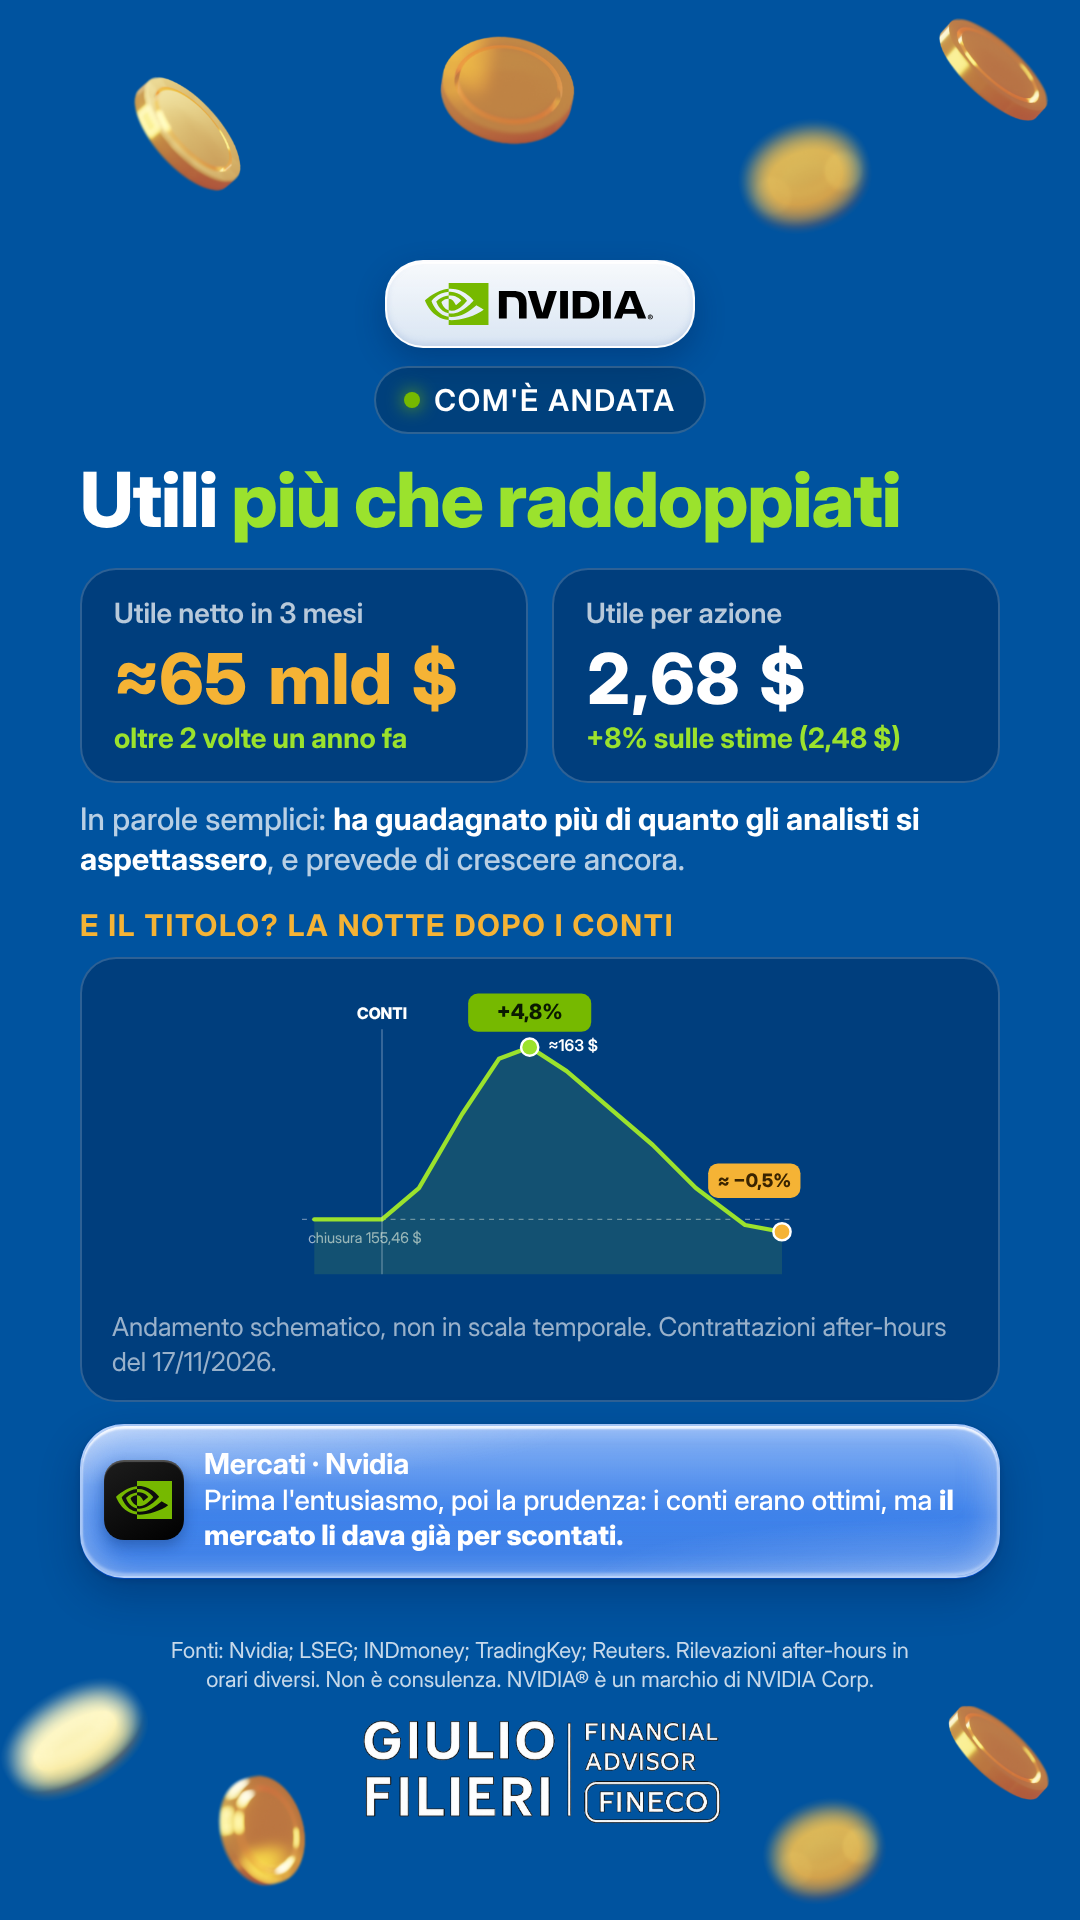
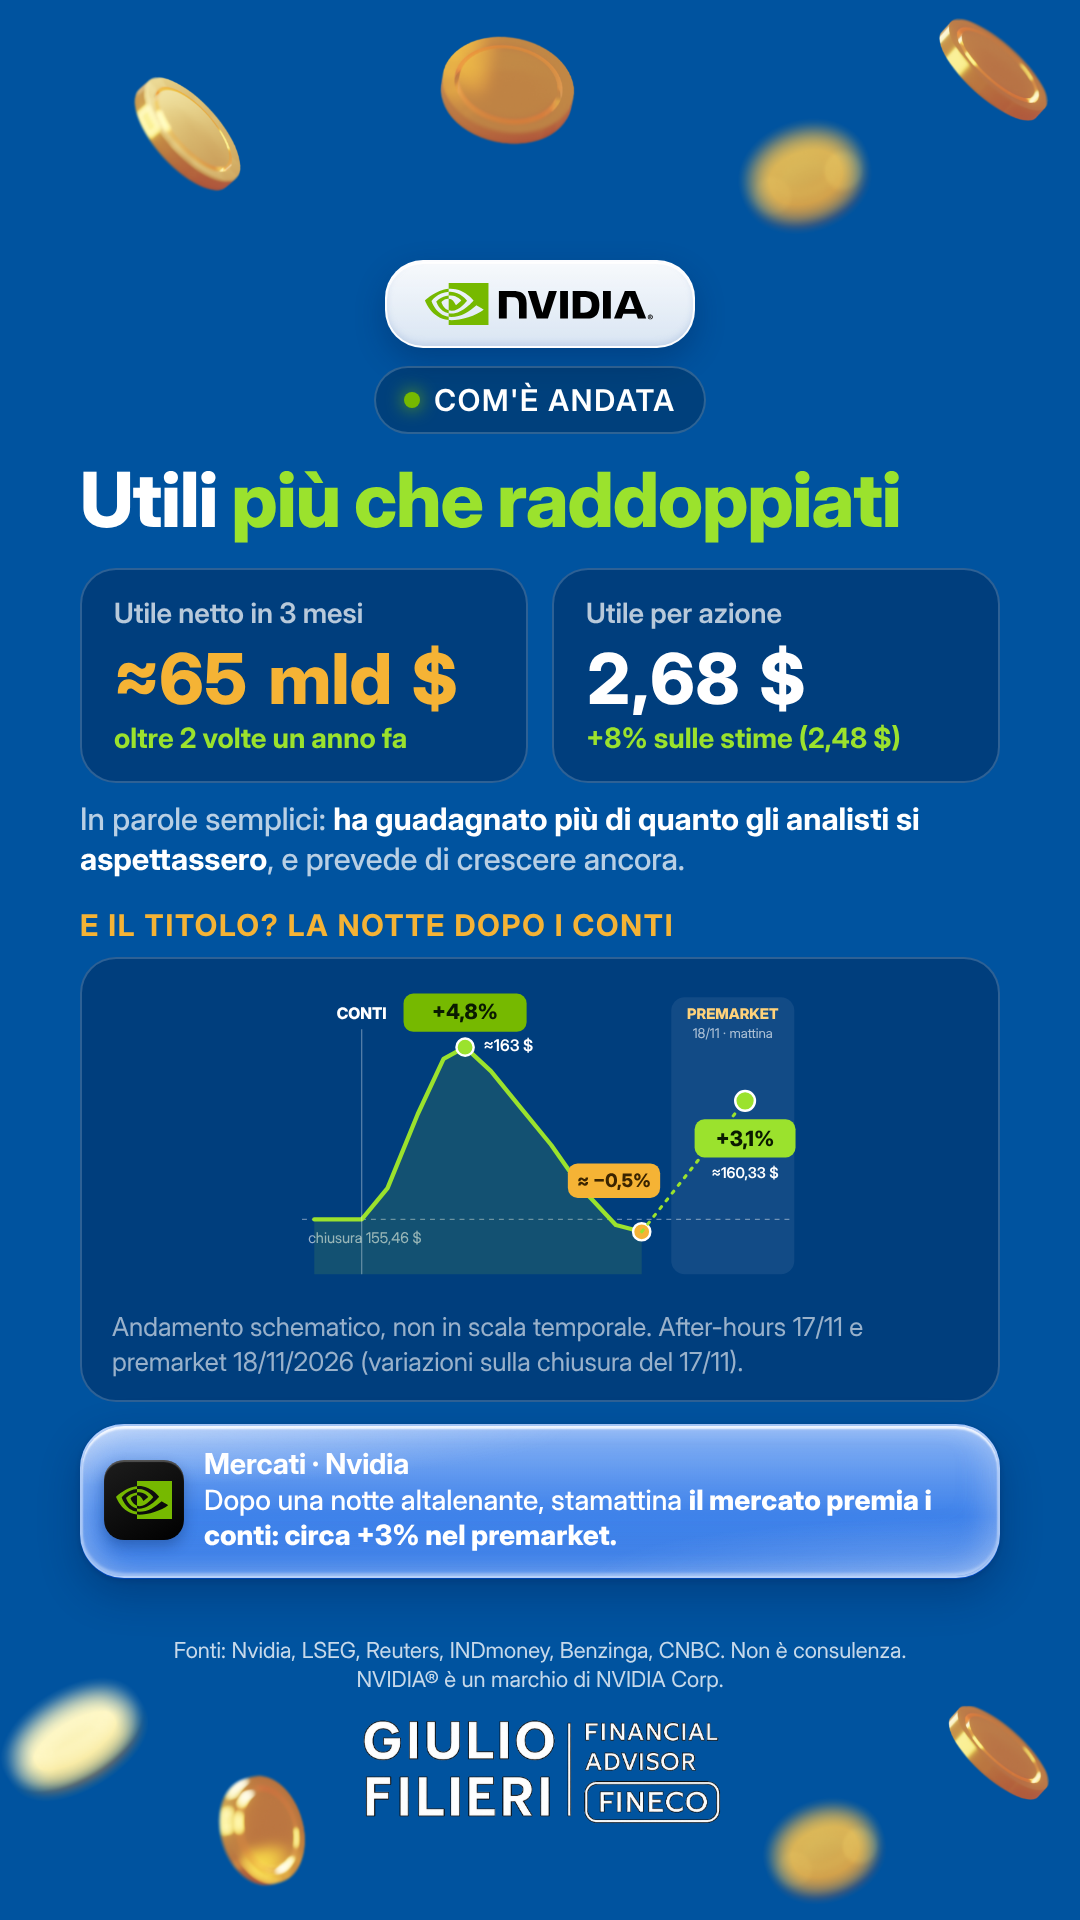
Aggiunge dato premarket del 18/11 alla slide 2
Claude-Session: https://claude.ai/code/session_01VXFpsKzCZQNUyBxAdjvLow

diff --git a/storie/nvidia-q3-fy27/trimestrale.html b/storie/nvidia-q3-fy27/trimestrale.html
@@ -151,16 +151,16 @@
       <div class="nicon nv"><img src="nvidia_eye.svg" alt=""></div>
       <div class="ncol">
         <div class="nhead"><div class="napp">Mercati · Nvidia</div></div>
-        <div class="nbody">Prima l'entusiasmo, poi la prudenza: i conti erano ottimi, ma <b>il mercato li dava già per scontati.</b></div>
+        <div class="nbody">Dopo una notte altalenante, stamattina <b>il mercato premia i conti: circa +3% nel premarket.</b></div>
       </div>
     </div>
 
-    <div class="small" style="margin-top:auto;font-size:22px;color:rgba(255,255,255,.78);text-align:center;padding:0 80px">Fonti: Nvidia; LSEG; INDmoney; TradingKey; Reuters. Rilevazioni after-hours in orari diversi. Non è consulenza. NVIDIA® è un marchio di NVIDIA Corp.</div>
+    <div class="small" style="margin-top:auto;font-size:22px;color:rgba(255,255,255,.78);text-align:center;padding:0 80px">Fonti: Nvidia, LSEG, Reuters, INDmoney, Benzinga, CNBC. Non è consulenza. NVIDIA® è un marchio di NVIDIA Corp.</div>
   </div>
 </section>
 <script>
 /* === DATO PREMARKET: compilare quando disponibile, es. {pct:+1.2, price:157.3, ora:"11:30"} === */
-const PM = null;
+const PM = {pct:+3.1, price:160.33, ora:"mattina"};
 
 (function(){
   const svg=document.getElementById('chart'), CLOSE=155.46, Y0=381, K=40;
